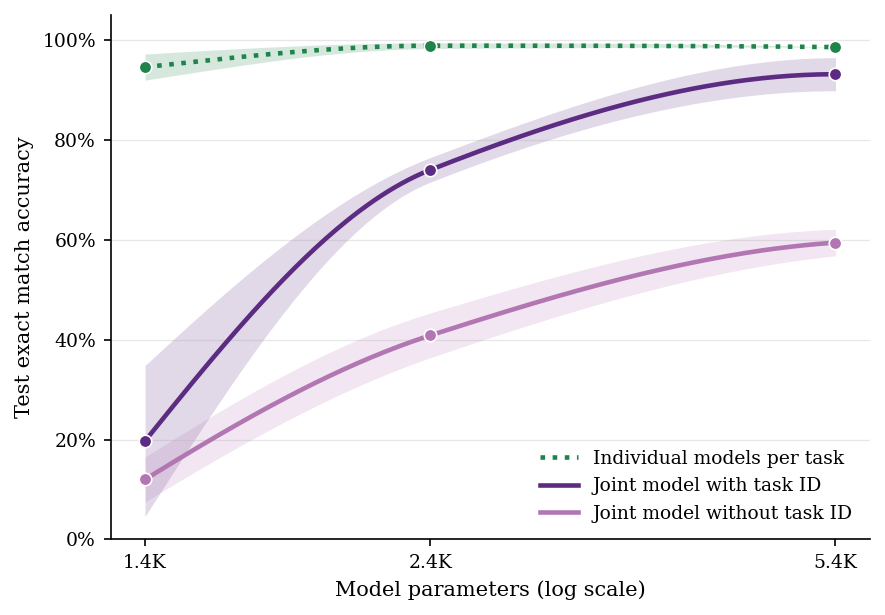
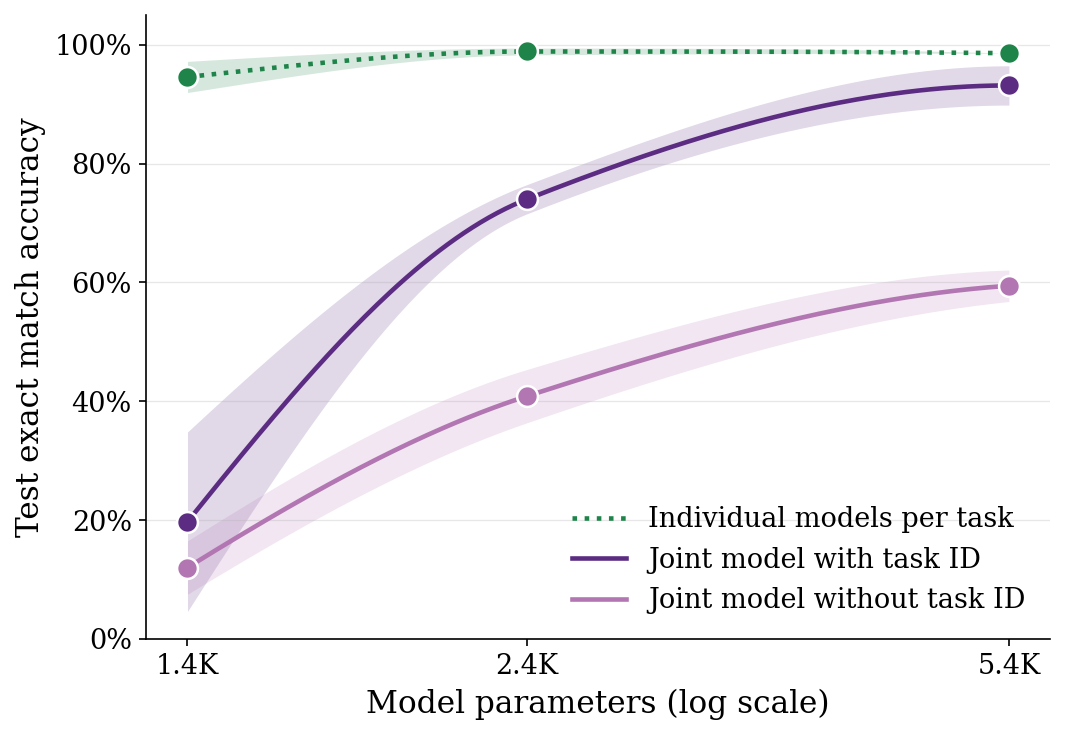
Capacity-cliff plot: larger labels, ticks, legend, and markers
Overrides the shared style's default sizes (tuned for dense multi-panel
LaTeX figures) with larger ones scoped to this standalone chart: axis
labels 15pt, tick/legend 13pt, markers 6->10px. Figure widened to 7.2x5.0
to give the larger text room.

diff --git a/configs/experiments/arc1d_v2_multitask/plot_capacity_cliff.py b/configs/experiments/arc1d_v2_multitask/plot_capacity_cliff.py
@@ -190,7 +190,18 @@ def build_series(records: list[dict]) -> dict[str, dict[str, dict]]:
 
 def plot(series: dict[str, dict[str, dict]], out_path: Path) -> None:
     apply_latex_style()
-    fig, ax = plt.subplots(figsize=(6.0, 4.2))
+    # Bump past the shared style's default sizes (tuned for dense multi-panel
+    # LaTeX figures) -- this is a single standalone chart, larger text reads
+    # better at its actual display size.
+    plt.rcParams.update(
+        {
+            "axes.labelsize": 15,
+            "xtick.labelsize": 13,
+            "ytick.labelsize": 13,
+            "legend.fontsize": 13,
+        }
+    )
+    fig, ax = plt.subplots(figsize=(7.2, 5.0))
 
     dims_sorted = sorted(DIM_PARAMS, key=lambda d: DIM_PARAMS[d])
 
@@ -224,8 +235,8 @@ def plot(series: dict[str, dict[str, dict]], out_path: Path) -> None:
             zorder=3,
         )
         ax.plot(
-            x, means, "o", color=COLORS[cond], markersize=6,
-            markeredgecolor="white", markeredgewidth=0.8, zorder=4,
+            x, means, "o", color=COLORS[cond], markersize=10,
+            markeredgecolor="white", markeredgewidth=1.2, zorder=4,
         )
 
     ax.set_xscale("log")
